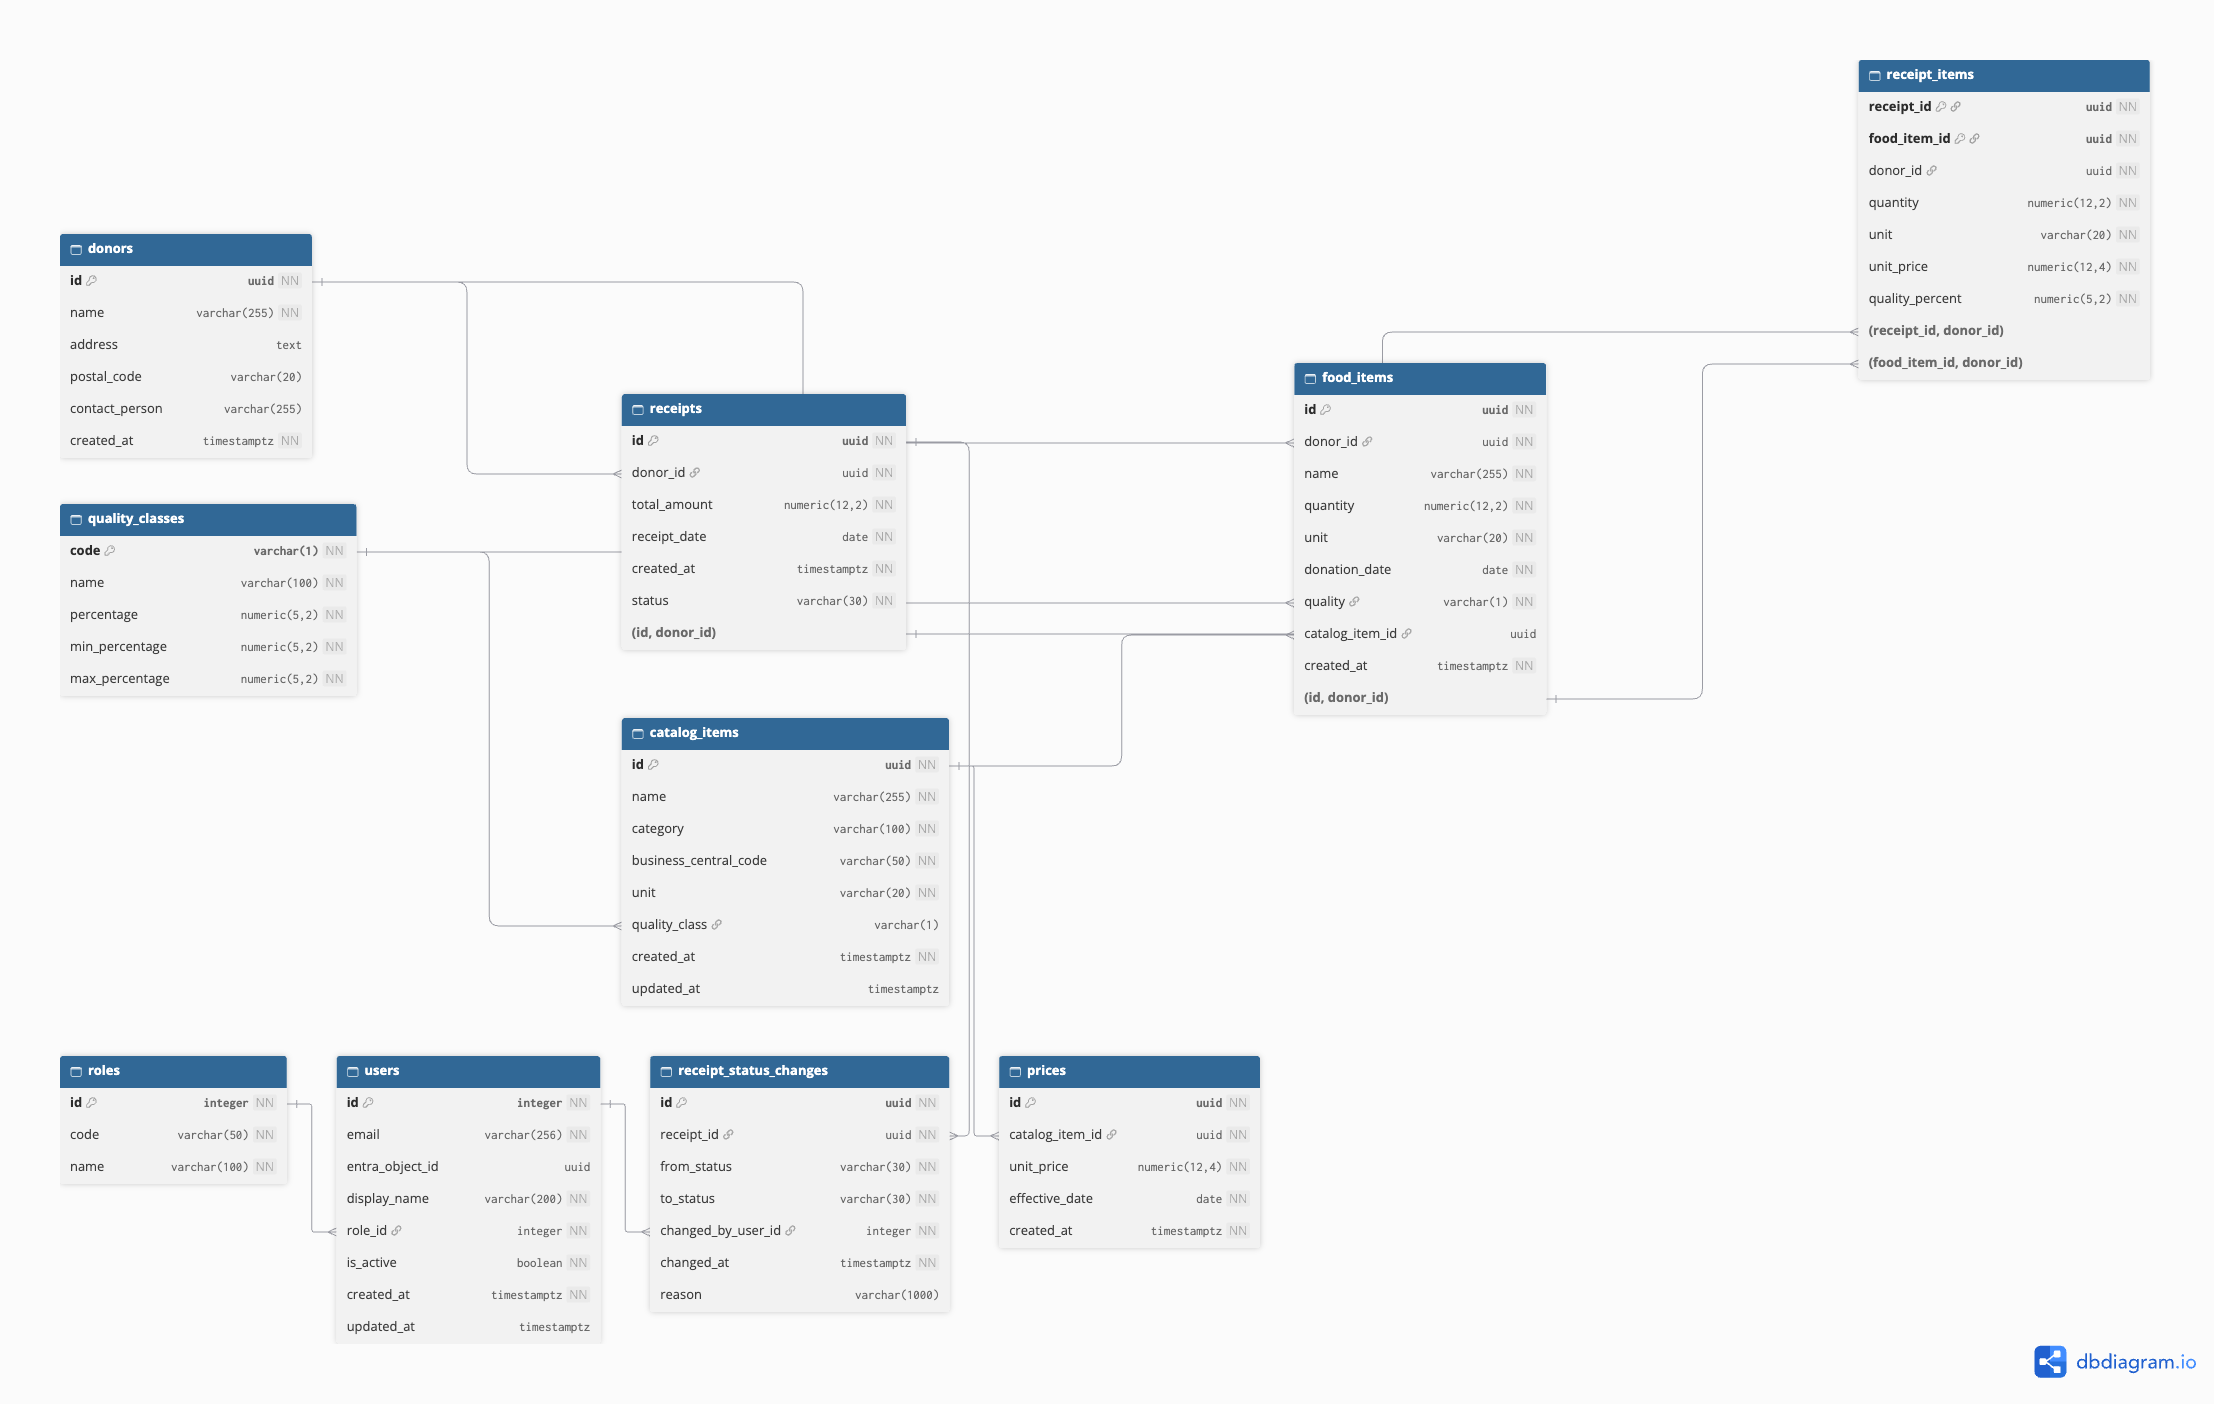
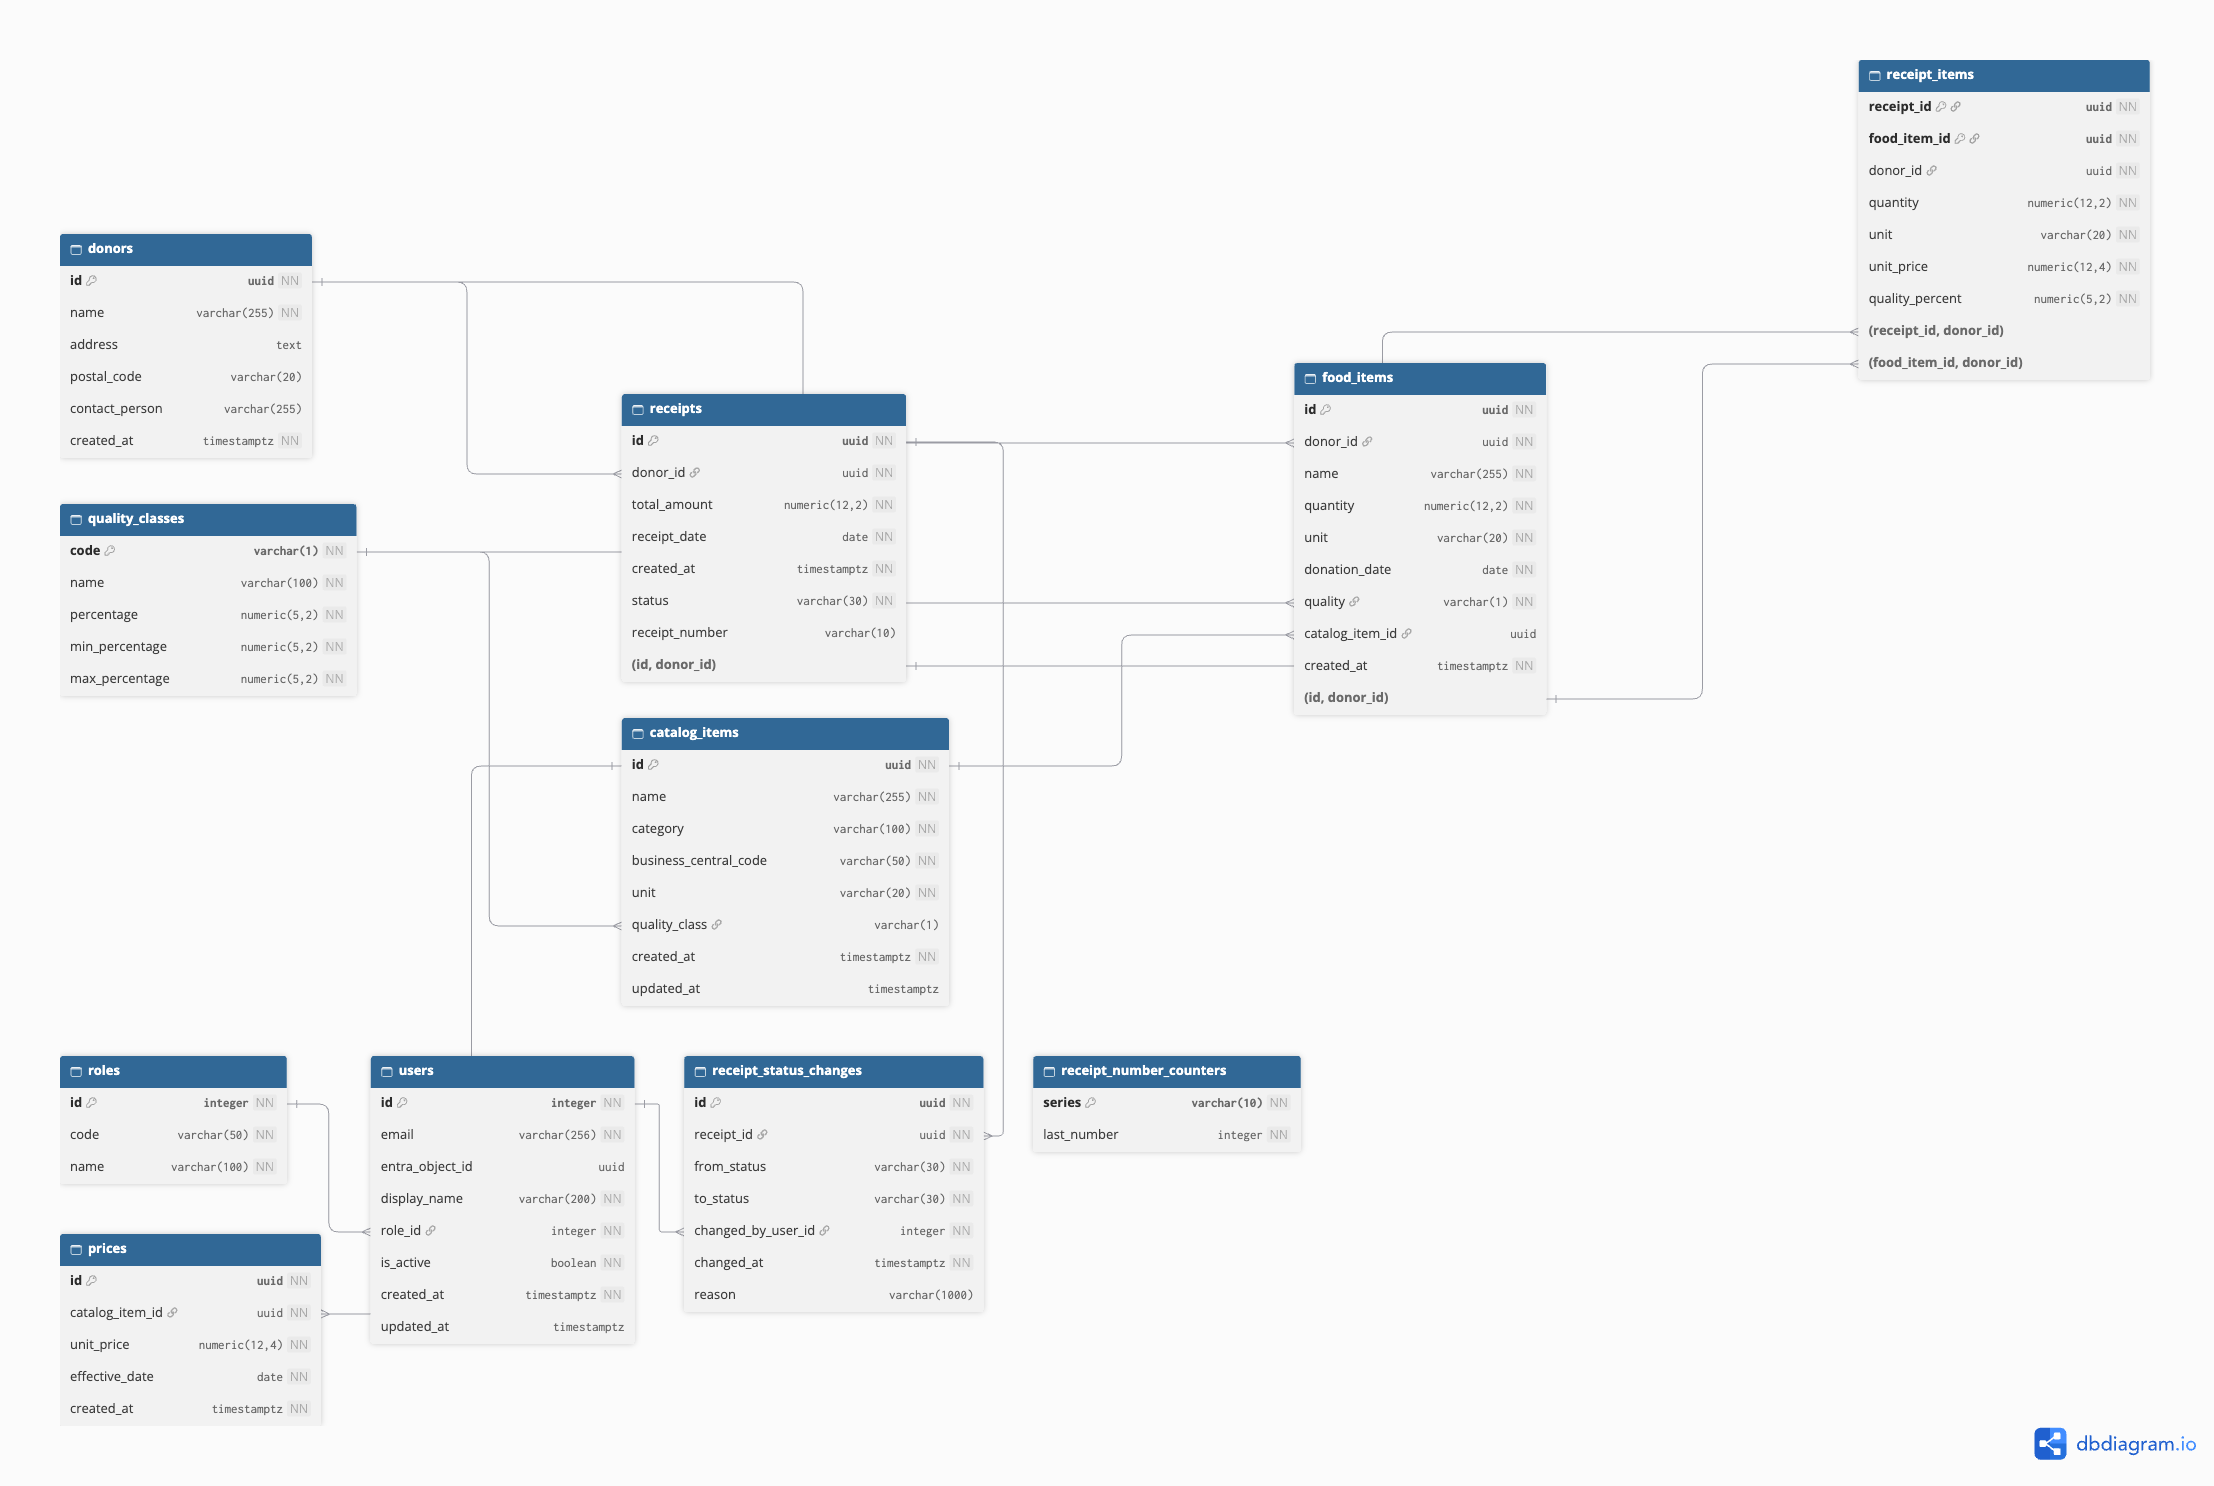
Document receipt numbers and add the DEN_000001 receipt number format in Core

diff --git a/tests/MoissonMontreal.Tests/Docs/ReceiptStatusDiagramTests.cs b/tests/MoissonMontreal.Tests/Docs/ReceiptStatusDiagramTests.cs
@@ -5,8 +5,9 @@ namespace MoissonMontreal.Tests.Docs;
 
 public partial class ReceiptStatusDiagramTests
 {
-    private static readonly string Diagram = MermaidBlock().Match(
-        File.ReadAllText(Path.Combine(RepositoryPaths.DatabaseDocs, "receipt-statuses.md")).ReplaceLineEndings("\n")).Groups["diagram"].Value;
+    private static readonly string Page = File.ReadAllText(Path.Combine(RepositoryPaths.DatabaseDocs, "receipt-statuses.md")).ReplaceLineEndings("\n");
+
+    private static readonly string Diagram = MermaidBlock().Match(Page).Groups["diagram"].Value;
 
     [Fact]
     public void Diagram_ShowsExactlyTheTransitionsOfTheStateMachine()
@@ -32,6 +33,14 @@ public partial class ReceiptStatusDiagramTests
     {
         Assert.Contains("[*] --> Draft\n", Diagram);
         Assert.Contains("Cancelled --> [*]\n", Diagram);
+    }
+
+    [Fact]
+    public void ReceiptNumbersSection_ShowsTheFormatOfTheCode()
+    {
+        Assert.Contains("\n## Receipt numbers\n", Page);
+        Assert.Contains($"{ReceiptNumber.Series}_ followed by {ReceiptNumber.Digits} digits", Page);
+        Assert.Contains($"{ReceiptNumber.Format(1)}, {ReceiptNumber.Format(2)}", Page);
     }
 
     [GeneratedRegex("```mermaid\n(?<diagram>.*?)```", RegexOptions.Singleline)]

diff --git a/docs/database/receipt-statuses.md b/docs/database/receipt-statuses.md
@@ -60,6 +60,19 @@ The roles come from the permissions in [roles-permissions.md](../auth/roles-perm
 
 The database also refuses an unknown status, a change without a reason when a receipt is refused or cancelled, and the deletion of a receipt or an employee that appears in the history. See [receipts.md](receipts.md).
 
+## Receipt numbers
+
+A receipt gets its number when it is issued, never before. The number is DEN_ followed by 6 digits: DEN_000001, DEN_000002, and so on. The series continues from one year to the next.
+
+1. DEN stands for food donations (denrées). It differs from the other receipt series of Moisson Montréal, such as WEB_ for money donations, so two receipts of the organization never share a number. This format is still to be confirmed with Nafissa.
+2. Numbers follow each other with no gap. A number is only used when the receipt is really issued: if the issue fails, the next receipt gets that number.
+3. Two receipts issued at the same time never get the same number. The last number given is kept in the receipt_number_counters table, and its row is locked while a receipt is issued, so issues are numbered one after the other.
+4. A cancelled receipt keeps its number, and that number is never given again.
+
+The database refuses two receipts with the same number, an issued receipt without a number, a number on a receipt that was never issued, and a number in another format. See [receipts.md](receipts.md).
+
+To change the format, update `ReceiptNumber.cs` in `src/MoissonMontreal.Core/Receipts/`, then add a migration, since the database checks the format.
+
 ## What the API answers
 
 Each action has its own endpoint:
@@ -76,7 +89,7 @@ Each action has its own endpoint:
 
 | Situation | Answer |
 | --- | --- |
-| The change is allowed | 200, with the status before and after, the employee, the date, the reason and the actions now possible |
+| The change is allowed | 200, with the status before and after, the employee, the date, the reason, the actions now possible and the receipt number once the receipt is issued |
 | The change is not allowed from the current status | 409, with a message such as "Issue is not allowed on a receipt in status Draft. Allowed actions: Submit, Cancel.", the current status and the actions possible |
 | Someone else changed the status in the meantime | 409 |
 | The reason is missing, empty or too long | 400 |
@@ -90,7 +103,8 @@ Each action has its own endpoint:
 | Piece | Location | Role |
 | --- | --- | --- |
 | `ReceiptStateMachine` | `src/MoissonMontreal.Core/Receipts/` | The list of allowed changes, with the permission, the reason and the submitter rule of each one |
-| `ReceiptStatusService` | `src/MoissonMontreal.Api/Receipts/` | Applies a change: checks it, then saves the status and the history in one transaction |
+| `ReceiptStatusService` | `src/MoissonMontreal.Api/Receipts/` | Applies a change: checks it, then saves the status and the history in one transaction. When the receipt is issued, it takes the next number in that same transaction |
+| `ReceiptNumber` | `src/MoissonMontreal.Core/Receipts/` | The format of the receipt number |
 | `ReceiptStatusController` | `src/MoissonMontreal.Api/Controllers/` | One endpoint per action, protected by the permission of its change |
 
 To change what is allowed:
